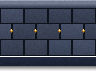
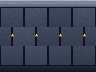
fix(slab): 修正楼板素材显示位置过低（背景尺寸与容器不匹配）
根因：CSS 把楼板背景设为 192x144（源图放大 2 倍），而 .floor-slab
容器只有 72px 高 —— 实际只显示了源图【上半张】。后果是铆钉被挤到
可见区底部、下沿厚度带与投影整段被裁掉，观感即'素材位置太低'。

- 背景改为 96px 72px（源图原生尺寸），与容器等高，整张完整可见
- 厚度带同步改为 96px 24px，并删除 .floor-slab::after 的重复定义
- 重制 floor_slab.png 重新构图：顶面高光 0-6（亮度 176->98 渐变）、
  暗棱 7、砖体三排错缝 8-64、铆钉移到垂直正中（第 35 行，板高 72
  的正中）、底部暗唇 65-71 自然过渡到厚度带
- 同步更新 tools/gen_floor_slab.py 使素材可复现

回归：10 视口通过，背景高度 == 容器高度、铆钉居中、厚度带可见、
英雄顶 78 > 楼板底 72 未被遮挡，零报错

diff --git a/assets/css/main.css b/assets/css/main.css
@@ -256,11 +256,14 @@ ul{ margin:0; padding:0; list-style:none; }
      否则会被布局内容盖住，"楼层分隔"看不见 */
   z-index:4;
   pointer-events:none;
-  /* 楼板本体：横向平铺，96x72 源图放大 2 倍保持像素锐利 */
+  /* 楼板本体：横向平铺，必须与容器【等高】显示（96px 72px）。
+     此前设为 192x144（源图放大 2 倍）而容器只有 72px 高，
+     导致只显示源图上半张：铆钉被挤到可见区底部、下沿厚度带与
+     投影整段被裁掉 —— 即"素材位置太低"。现改为 1:1 完整显示。 */
   background-image:url("../img/floor_slab.png");
   background-repeat:repeat-x;
   background-position:center top;
-  background-size:192px 144px;   /* = 源图 96x72 的 2 倍 */
+  background-size:96px 72px;   /* = 源图原生尺寸，与容器等高 */
   image-rendering:pixelated;
   image-rendering:crisp-edges;
 }
@@ -277,28 +280,16 @@ ul{ margin:0; padding:0; list-style:none; }
     rgba(200,86,26,0) 100%);
   pointer-events:none;
 }
-/* 下沿厚度带：接在楼板下方，形成"板有厚度"的立体感 */
+/* 下沿厚度带：接在楼板下方，形成"板有厚度"的立体感。
+   96x24 原生尺寸 1:1 显示，与上方楼板像素密度一致。 */
 .floor-slab::after{
   content:"";
   position:absolute; left:0; right:0; top:100%;
-  height:24px;
+  height:var(--slab-edge);
   background-image:url("../img/floor_edge.png");
   background-repeat:repeat-x;
   background-position:center top;
-  background-size:192px 48px;
-  image-rendering:pixelated;
-  image-rendering:crisp-edges;
-  opacity:.92;
-}
-/* 下沿厚度带：接在楼板下方，形成"板有厚度"的立体感 */
-.floor-slab::after{
-  content:"";
-  position:absolute; left:0; right:0; top:100%;
-  height:24px;
-  background-image:url("../img/floor_edge.png");
-  background-repeat:repeat-x;
-  background-position:center top;
-  background-size:192px 48px;
+  background-size:96px 24px;   /* = 源图原生尺寸 */
   image-rendering:pixelated;
   image-rendering:crisp-edges;
   opacity:.92;

diff --git a/tools/gen_floor_slab.py b/tools/gen_floor_slab.py
@@ -1,13 +1,26 @@
-"""重制楼板：加高到 72px 并强化对比，使其成为清晰的楼层分隔。
+"""重制楼板素材：修正"素材位置太低"。
 
-用户反馈楼板"有点挡英雄"——实为楼板吸顶后占住视口顶部，而属性栏
-sticky top 只有 8px。本次两件事一起做：
-  1. 楼板本体 48 -> 72（更高更醒目，楼层感更强）
-  2. 顶面高光进一步提亮，避免被光照黑幕压成一团黑
+问题根因（不是素材画错，是显示尺寸与容器不匹配）：
+  CSS 里 background-size 设为 192x144（源图 2 倍放大），而 .floor-slab
+  容器只有 72px 高 —— 于是只显示源图【上半张】。结果是：
+    · 铆钉被挤到可见区底部（观感"下坠"）
+    · 下沿厚度带与投影整个被裁掉
+  即用户反馈的"底板的素材位置好像太低了"。
+
+修正：
+  1. 源图保持原生 96x72，CSS 显示尺寸同步为 96px 72px（与容器等高），
+     整张图完整可见，1:1 像素完美（高分屏由 pixelated 整数倍放大）。
+  2. 重新构图，铆钉从"贴底"移到楼板【垂直正中】，不再显得下坠：
+       0-6   顶面高光（最亮，受光面）
+       7     暗棱（顶面与立面的转折）
+       8-64  砖体三排错缝
+       ~35   金铜铆钉（垂直居中）
+       65-71 底部暗唇（过渡到下方厚度带）
+  3. floor_edge.png 为独立的下沿厚度带（96x24，显示 96px 24px）。
 
 产出（assets/img/）：
-  floor_slab.png   96 x 72   楼板主体（横向平铺）
-  floor_edge.png   96 x 24   下沿厚度带（横向平铺）
+  floor_slab.png   96 x 72
+  floor_edge.png   96 x 24
 """
 from PIL import Image
 import os, random
@@ -16,119 +29,106 @@ OUT = os.path.join(os.path.dirname(os.path.dirname(os.path.abspath(__file__))), 
 random.seed(20260917)
 
 BRICK = ["#3A4257", "#384054", "#3D475D", "#3B4255", "#414A60"]
-BRICK_DK = ["#20273B", "#1E2639", "#232C42"]
+BRICK_DK = ["#1B2233", "#192032", "#1E2639"]
 MORTAR = "#0E121B"
 GOLD = "#C8912F"
 GOLD_LT = "#FFD873"
 GOLD_DK = "#7A5118"
-STONE_LT = "#9AA3B8"      # 顶面受光高光（再加亮）
-STONE_MID = "#727C92"
-STONE_DK = "#454E63"
+STONE_LT = "#A8B2C6"      # 顶面最亮（受光）
+STONE_MID = "#7C8699"
+STONE_LO = "#5A6478"
+
+W, H = 96, 72                      # 原生尺寸，与 CSS 显示尺寸 1:1
 
 def hx(c):
     c = c.lstrip("#")
-    return tuple(int(c[i:i+2], 16) for i in (0, 2, 4))
+    return tuple(int(c[i:i + 2], 16) for i in (0, 2, 4))
 
-def rnd(cols):
-    return hx(random.choice(cols)) + (255,)
+def mix(a, b, t):
+    ca, cb = hx(a), hx(b)
+    return '#%02X%02X%02X' % tuple(int(ca[i] + (cb[i] - ca[i]) * t) for i in range(3))
 
-W, H = 96, 72                      # 加高：48 -> 72
-slab = Image.new("RGBA", (W, H), (0, 0, 0, 0))
+img = Image.new("RGBA", (W, H), (0, 0, 0, 0))
+put = lambda x, y, c: img.putpixel((x, y), hx(c) + (255,)) if (0 <= x < W and 0 <= y < H) else None
 
-# 1) 底面投影
-for y in range(66, H):
-    t = (y - 66) / max(1, H - 1 - 66)
-    a = int(130 * (1 - t) ** 1.3)
-    for x in range(W):
-        slab.putpixel((x, y), (0, 0, 0, a))
+# ---- 1) 顶面高光 0-6：最亮，模拟"被上一层灯光照到" ----
+for ly in range(0, 7):
+    if ly == 0:
+        c = STONE_LT
+    elif ly <= 2:
+        c = STONE_MID
+    else:
+        c = mix(STONE_MID, STONE_LO, (ly - 3) / 3.0)
+    for lx in range(W):
+        n = random.uniform(0.96, 1.04)
+        cc = hx(c)
+        put(lx, ly, '#%02X%02X%02X' % tuple(min(255, int(v * n)) for v in cc))
 
-# 2) 下沿暗带（厚度）
-for y in range(57, 66):
-    t = (y - 57) / 9.0
-    for x in range(W):
-        b = rnd(BRICK_DK)
-        k = 0.8 + 0.2 * (1 - t)
-        slab.putpixel((x, y), (int(b[0]*k), int(b[1]*k), int(b[2]*k), 255))
+# ---- 2) 暗棱 7：顶面与立面的转折 ----
+for lx in range(W):
+    put(lx, 7, MORTAR)
 
-# 3) 石砖主体（三排错缝，配合加高后的高度）
-BW, BH = 24, 16
-ROWS = 3
-for row in range(ROWS):
+# ---- 3) 砖体 8-64：三排错缝，每排 19px ----
+BW, BH = 24, 19
+for row in range(3):
     y0 = 8 + row * BH
     off = 0 if row % 2 == 0 else BW // 2
     for bx in range(-1, W // BW + 2):
         x0 = bx * BW + off
-        body = rnd(BRICK)
+        body = random.choice(BRICK)
         for yy in range(BH):
             for xx in range(BW):
                 x, y = x0 + xx, y0 + yy
-                if not (0 <= x < W and 0 <= y < 66):
+                if not (0 <= x < W and 8 <= y < 65):
                     continue
-                v = 1.08 - 0.18 * (yy / BH)
-                n = random.uniform(0.93, 1.07)
-                slab.putpixel((x, y), (min(255, int(body[0]*v*n)),
-                                        min(255, int(body[1]*v*n)),
-                                        min(255, int(body[2]*v*n)), 255))
+                v = (1.10 - 0.20 * (yy / BH)) * random.uniform(0.93, 1.07)
+                cb = hx(body)
+                put(x, y, '#%02X%02X%02X' % tuple(min(255, int(q * v)) for q in cb))
         # 砖缝
         for yy in range(BH):
-            y = y0 + yy
-            if 0 <= y < 66:
-                if 0 <= x0 < W: slab.putpixel((x0, y), hx(MORTAR) + (255,))
-                if 0 <= x0 + BW - 1 < W: slab.putpixel((x0 + BW - 1, y), hx(MORTAR) + (255,))
-        for xx in range(BW):
-            x = x0 + xx
-            if 0 <= x < W and y0 + BH - 1 < 66:
-                slab.putpixel((x, y0 + BH - 1), hx(MORTAR) + (255,))
+            if 8 <= y0 + yy < 65:
+                put(x0, y0 + yy, MORTAR)
+                put(x0 + BW - 1, y0 + yy, MORTAR)
 
-# 4) 顶面高光（8px，更厚更亮）
-for y in range(0, 8):
-    for x in range(W):
-        if y == 0:
-            c = STONE_LT
-        elif y <= 2:
-            c = STONE_MID
-        else:
-            t = (y - 3) / 4.0
-            a0, a1 = hx(STONE_MID), hx(BRICK[0])
-            c = '#%02X%02X%02X' % tuple(int(a0[i] + (a1[i] - a0[i]) * t) for i in range(3))
-        n = random.uniform(0.96, 1.04)
-        cc = hx(c)
-        slab.putpixel((x, y), (min(255, int(cc[0]*n)), min(255, int(cc[1]*n)), min(255, int(cc[2]*n)), 255))
-# 顶面与主体的暗棱
-for x in range(W):
-    slab.putpixel((x, 8), hx(MORTAR) + (255,))
-
-# 5) 铆钉（每 24px 一个，位于主体中部）
+# ---- 4) 铆钉：垂直居中（ly=35，板高 72 的正中）----
+RY = 35
 for bx in range(W // 24):
-    cx = bx * 24 + 11
-    cy = 30
-    pts = [(0, 0, GOLD_LT), (0, 1, GOLD), (-1, 0, GOLD), (1, 0, GOLD),
-           (-1, 1, GOLD_DK), (1, 1, GOLD_DK), (0, 2, GOLD_DK), (0, -1, GOLD_LT)]
-    for dx, dy, col in pts:
-        x, y = cx + dx, cy + dy
-        if 0 <= x < W and 0 <= y < 66:
-            slab.putpixel((x, y), hx(col) + (255,))
+    cx = bx * 24 + 12
+    for dx, dy, col in [(0, -1, GOLD_LT), (0, 0, GOLD_LT), (-1, 0, GOLD), (1, 0, GOLD),
+                        (-1, 1, GOLD_DK), (1, 1, GOLD_DK), (0, 1, GOLD_DK)]:
+        put(cx + dx, RY + dy, col)
 
-slab.save(os.path.join(OUT, "floor_slab.png"))
-print("floor_slab.png", slab.size)
+# ---- 5) 底部暗唇 65-71：过渡到下方厚度带 ----
+for ly in range(65, H):
+    t = (ly - 65) / (H - 1 - 65)
+    c = mix("#242C40", "#121826", t)
+    for lx in range(W):
+        n = random.uniform(0.94, 1.06)
+        cc = hx(c)
+        put(lx, ly, '#%02X%02X%02X' % tuple(min(255, int(v * n)) for v in cc))
+for lx in range(W):
+    put(lx, 65, MORTAR)
 
-# ---- 下沿厚度带 ----
+img.save(os.path.join(OUT, "floor_slab.png"))
+print("floor_slab.png", img.size)
+
+# ---- 下沿厚度带 96x24 ----
 W2, H2 = 96, 24
 edge = Image.new("RGBA", (W2, H2), (0, 0, 0, 0))
 PLATE = ["#1A2130", "#1E2536", "#18202F", "#212839"]
-for y in range(H2):
-    t = y / (H2 - 1.0)
-    for x in range(W2):
-        b = rnd(PLATE)
-        k = 1.0 - 0.5 * t
-        n = random.uniform(0.95, 1.05)
-        edge.putpixel((x, y), (min(255, int(b[0]*k*n)), min(255, int(b[1]*k*n)), min(255, int(b[2]*k*n)), 255))
-for x in range(W2):
-    edge.putpixel((x, 0), hx("#2E3648") + (255,))
-for bx in range(0, W2, 32):
-    for y in range(H2):
-        edge.putpixel((bx, y), hx("#05070C") + (255,))
+for ly in range(H2):
+    t = ly / (H2 - 1.0)
+    for lx in range(W2):
+        b = hx(random.choice(PLATE))
+        k = (1.0 - 0.5 * t) * random.uniform(0.95, 1.05)
+        edge.putpixel((lx, ly), (min(255, int(b[0] * k)), min(255, int(b[1] * k)),
+                                 min(255, int(b[2] * k)), 255))
+for lx in range(W2):
+    edge.putpixel((lx, 0), hx("#2E3648") + (255,))      # 与楼板衔接的亮边
+for bx in range(0, W2, 32):                              # 竖向分缝
+    for ly in range(H2):
+        edge.putpixel((bx, ly), hx("#05070C") + (255,))
         if bx + 1 < W2:
-            edge.putpixel((bx + 1, y), hx("#0A0E17") + (255,))
+            edge.putpixel((bx + 1, ly), hx("#0A0E17") + (255,))
 edge.save(os.path.join(OUT, "floor_edge.png"))
 print("floor_edge.png", edge.size)
